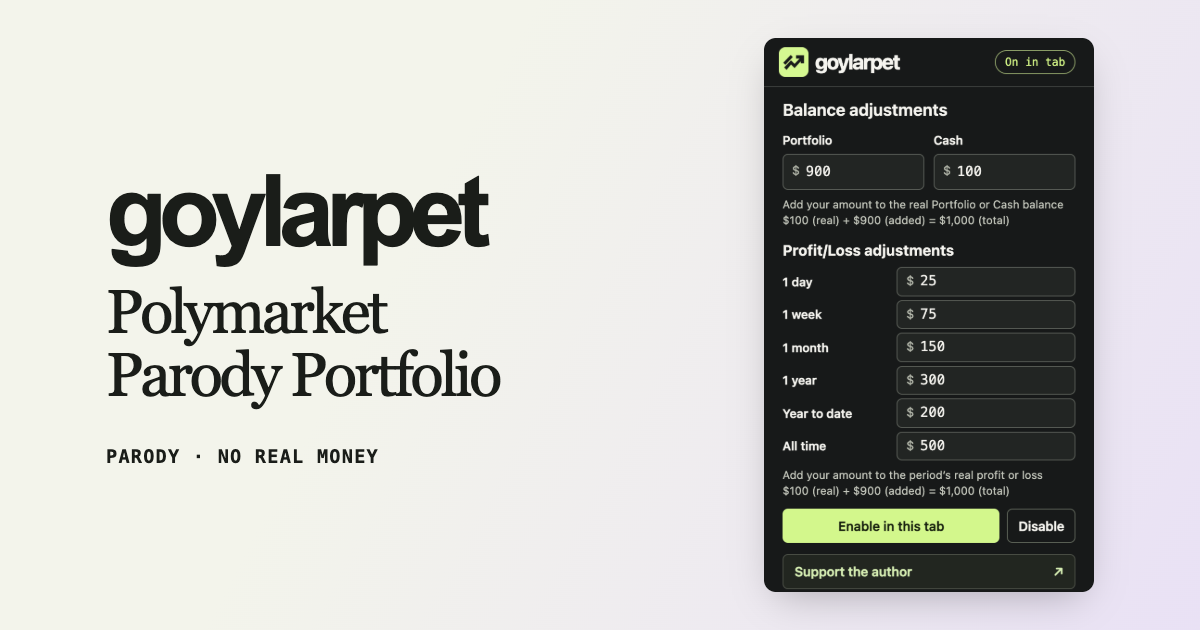
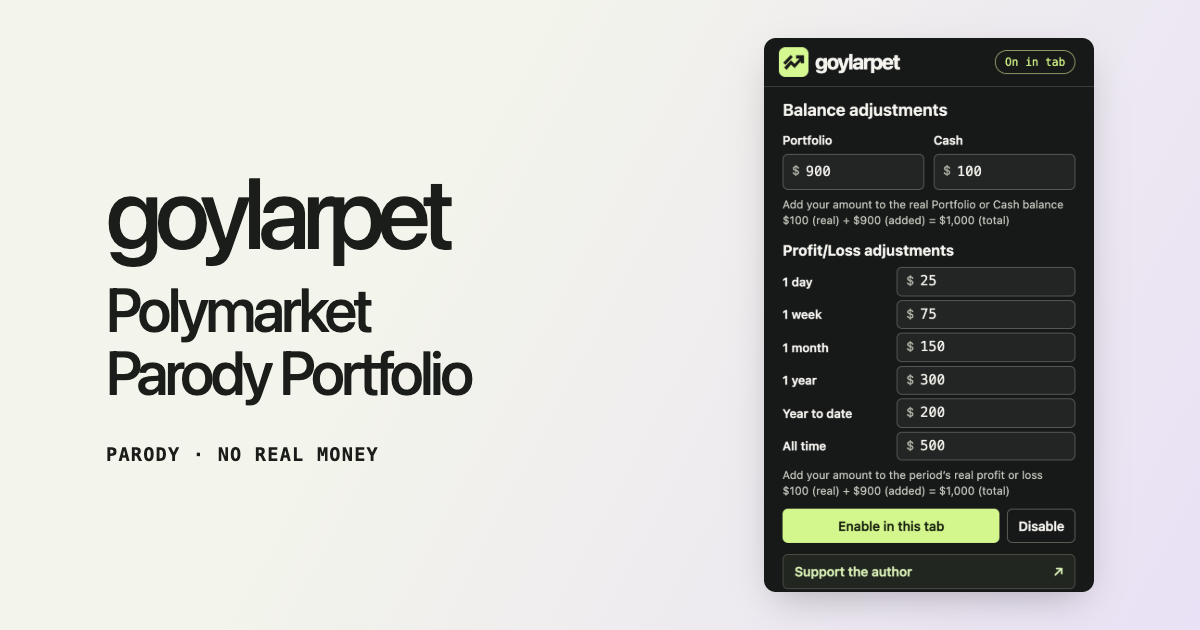
Match landing and store artwork headings to Pereplio typography

diff --git a/site/assets/site.css b/site/assets/site.css
@@ -1,7 +1,8 @@
 :root {
   --ink: #1a1d19; --muted: #52594e; --paper: #fafaf6; --lime: #d6f88f; --line: #d7d9cf;
   color: var(--ink); background: var(--paper);
-  font: 16px/1.5 "Inter", "Helvetica Neue", Arial, sans-serif;
+  font: 16px/1.5 Inter, -apple-system, BlinkMacSystemFont, "Segoe UI", sans-serif;
+  font-feature-settings: "tnum" 1, "cv02" 1, "cv03" 1, "cv04" 1;
   -webkit-font-smoothing: antialiased;
 }
 * { box-sizing: border-box; }
@@ -19,7 +20,7 @@ button { cursor: pointer; }
 .bar, .foot-row, .brand, nav, .button, .pair-heading { display: flex; align-items: center; }
 .bar, .foot-row { justify-content: space-between; gap: 1rem; }
 .bar { min-height: 72px; }
-.brand { gap: 8px; font-size: 23px; line-height: 1; font-weight: 750; letter-spacing: -.065em; }
+.brand { gap: 8px; font-size: 23px; line-height: 1; font-weight: 600; letter-spacing: -.03em; }
 .brand img { display: block; }
 nav { gap: clamp(14px, 2.5vw, 32px); font-size: 14px; }
 nav a:hover, .card-link:hover { text-decoration: underline; text-underline-offset: 4px; }
@@ -27,8 +28,8 @@ nav a:hover, .card-link:hover { text-decoration: underline; text-underline-offse
 .nav-install span { color: var(--lime); margin-left: 4px; }
 .hero { display: grid; grid-template-columns: 1fr .9fr; align-items: center; gap: clamp(24px, 5vw, 80px); padding-block: clamp(28px, 4vw, 60px); }
 .hero-copy { padding-block: 12px; }
-.hero h1 { font-size: clamp(60px, 7.6vw, 112px); font-weight: 700; letter-spacing: -.08em; line-height: .98; }
-.hero h1 span { display: block; margin-top: 14px; font: 400 clamp(38px, 4.6vw, 68px)/1.04 "Instrument Serif", Georgia, serif; letter-spacing: -.052em; }
+.hero h1 { font-size: clamp(60px, 7.6vw, 112px); font-weight: 500; letter-spacing: -.07em; line-height: .96; }
+.hero h1 span { display: block; margin-top: 14px; font-size: clamp(38px, 4.6vw, 68px); line-height: 1.04; letter-spacing: -.055em; }
 .lead { margin-block: 24px 30px; max-width: 36ch; font-size: clamp(17px, 1.5vw, 21px); color: var(--muted); }
 .button { width: fit-content; min-height: 44px; justify-content: center; gap: 14px; border: 1px solid transparent; padding: 10px 18px; border-radius: 8px; font-size: 15px; font-weight: 620; text-align: center; }
 .lime { background: var(--lime); color: #1b2015; }
@@ -42,7 +43,7 @@ nav a:hover, .card-link:hover { text-decoration: underline; text-underline-offse
 .walkthrough h2 { margin-bottom: 14px; }
 .support-section { border-block: 1px solid var(--line); background: #edf1e6; scroll-margin-top: 18px; }
 .support-grid { display: grid; grid-template-columns: 1fr .9fr; gap: 5%; align-items: center; padding-block: clamp(30px, 4vw, 54px); }
-.support-heading h2, .walkthrough h2 { font-weight: 550; letter-spacing: -.055em; font-size: clamp(32px, 4vw, 52px); line-height: 1.04; }
+.support-heading h2, .walkthrough h2 { font-weight: 500; letter-spacing: -.055em; font-size: clamp(32px, 4vw, 52px); line-height: 1.04; }
 .support-heading p { margin-top: 10px; color: var(--muted); }
 .support-panel { min-width: 0; }
 #no-address { display: flex; align-items: center; gap: 13px; flex-wrap: wrap; font-size: 14px; color: var(--muted); }
@@ -52,7 +53,7 @@ nav a:hover, .card-link:hover { text-decoration: underline; text-underline-offse
 .selectors label { flex: 1 1 130px; min-width: 0; font-size: 13px; }
 select { width: 100%; display: block; margin-top: 5px; padding: 7px; border: 1px solid #a2ab9a; border-radius: 5px; color: var(--ink); background: var(--paper); }
 .pair-heading { gap: 8px; margin-block: 15px 8px; }
-#pair { font-size: 16px; }
+#pair { font-size: 16px; font-weight: 500; letter-spacing: -.03em; }
 #address { display: block; overflow-wrap: anywhere; }
 #send-note, #copy-status { font-size: 13px; }
 #send-note { margin-block: 6px 10px; }
@@ -62,15 +63,14 @@ select { width: 100%; display: block; margin-top: 5px; padding: 7px; border: 1px
 .foot nav { color: var(--muted); }
 .doc-page, .privacy { padding-block: clamp(42px, 7vw, 94px); }
 .doc-grid { display: grid; gap: 7%; grid-template-columns: 1fr 1fr; align-items: center; }
-.doc-intro h1, .prose h1 { font-size: clamp(40px, 5.6vw, 76px); line-height: 1.02; font-weight: 560; letter-spacing: -.065em; }
-.doc-intro em { font-family: Georgia, serif; }
+.doc-intro h1, .prose h1 { font-size: clamp(40px, 5.6vw, 76px); line-height: 1.02; font-weight: 500; letter-spacing: -.06em; }
 .release-status { margin-block: 24px; display: flex; align-items: center; gap: 9px; color: var(--muted); }
 .release-status i { width: 9px; height: 9px; border-radius: 50%; background: #8268a9; }
 .doc-card { padding: clamp(20px, 3vw, 38px); border-radius: 16px; background: #e9e3f1; }
-.doc-card h2, .prose h2 { font-size: 26px; letter-spacing: -.04em; }
+.doc-card h2, .prose h2 { font-size: 26px; font-weight: 500; letter-spacing: -.04em; }
 .install-steps { padding-left: 22px; }
 .install-steps li { padding-left: 4px; margin-block: 14px; }
-.install-steps h3 { font-size: 17px; }
+.install-steps h3 { font-size: 17px; font-weight: 500; letter-spacing: -.03em; }
 .card-link { display: inline-block; margin-top: 10px; text-decoration: underline; }
 .prose { max-width: 750px; }
 .prose p { margin-top: 12px; }

diff --git a/site/download/index.html b/site/download/index.html
@@ -20,7 +20,7 @@
   </div></header>
   <main id="main" class="doc-page"><div class="shell doc-grid">
     <div class="doc-intro">
-      <h1>Download <em>goylarpet</em> for Chrome</h1>
+      <h1>Download goylarpet for Chrome</h1>
       <div class="release-status" id="store-status" role="status"><i></i><span>Public Chrome Web Store listing pending</span></div>
       <a class="button lime" id="store-link" data-install hidden>Add to Chrome <span aria-hidden="true">↗</span></a>
     </div>
